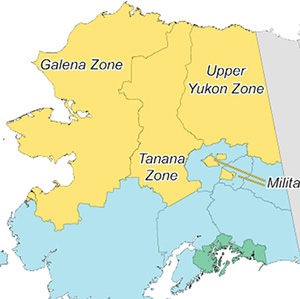
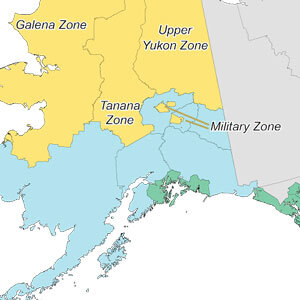
Formatting fixups (#542)
* Improvements to styling, location of "back to top" and "go back" buttons

* Adjust map showing fire protection areas

* Simplify language under qualitative textblob

---------

diff --git a/components/reports/wildfire/WildfireReport.vue b/components/reports/wildfire/WildfireReport.vue
@@ -62,6 +62,7 @@
       endpoint="flammability"
       class="mt-3 mb-5"
     />
+    <BackToTopButton />
     <div class="content">
       <div class="is-size-5 mt-6">
         <p>
@@ -87,6 +88,7 @@
       endpoint="veg_type"
       class="mt-3 mb-5"
     />
+    <BackToTopButton />
   </div>
 </template>
 <style lang="scss" scoped>
@@ -117,6 +119,7 @@ import ReportVegChangeMaps from './ReportVegChangeMaps'
 import ReportVegChangeChart from './ReportVegChangeChart'
 import DownloadCsvButton from '~/components/reports/DownloadCsvButton'
 import ColorTable from '~/components/reports/ColorTable'
+import BackToTopButton from '~/components/reports/BackToTopButton'
 import { mapGetters } from 'vuex'
 
 export default {
@@ -128,6 +131,7 @@ export default {
     ReportVegChangeChart,
     DownloadCsvButton,
     ColorTable,
+    BackToTopButton,
   },
   computed: {
     ...mapGetters({

diff --git a/components/Report.vue b/components/Report.vue
@@ -1,6 +1,5 @@
 <template>
   <div id="results" class="container">
-    <BackButton />
     <hr />
     <section v-if="$fetchState.pending" class="section content">
       <!-- Drama dots -->
@@ -31,6 +30,7 @@
         </h3>
         <MiniMap :polystyle="polystyle" />
         <QualitativeText />
+        <div class="content centered"><BackButton /></div>
       </section>
       <section class="section content pb-0 is-hidden-touch" v-if="dataPresent">
         <h3 class="title is-3">Introduction</h3>
@@ -265,6 +265,7 @@
         </div>
       </section>
       <hr />
+      <div class="content centered"><BackButton /></div>
     </div>
   </div>
 </template>

diff --git a/components/reports/QualitativeText.vue b/components/reports/QualitativeText.vue
@@ -2,9 +2,8 @@
   <div class="qualitative-text content" v-if="qualitativeText">
     <div class="generated" v-html="qualitativeText"></div>
     <p class="about-blurb">
-      Late&ndash;century, high-emissions (RCP 8.5), MRI CGCM3 or NCAR CCSM4
-      model (whichever shows greater change).<br />See tables and sections below
-      for more detailed information and definitions of fire activity levels.
+      Summary across all models and scenarios.  See tables and sections below
+      for more detailed information and definitions.
     </p>
   </div>
 </template>

diff --git a/components/BackButton.vue b/components/BackButton.vue
@@ -1,10 +1,9 @@
 <template>
   <div class="back">
     <b-button
-      class="default"
       tag="nuxt-link"
       to="/#controls"
-      type="is-info"
+      type="is-info is-light"
       icon-left="arrow-left-circle"
     >
       <strong>Go back</strong>, pick another place</b-button

diff --git a/components/reports/BackToTopButton.vue b/components/reports/BackToTopButton.vue
@@ -1,6 +1,6 @@
 <template>
   <p>
-    <a href="#toc">Back to top</a>
+    <a class="button light" href="#toc">Back to top</a>
   </p>
 </template>
 
